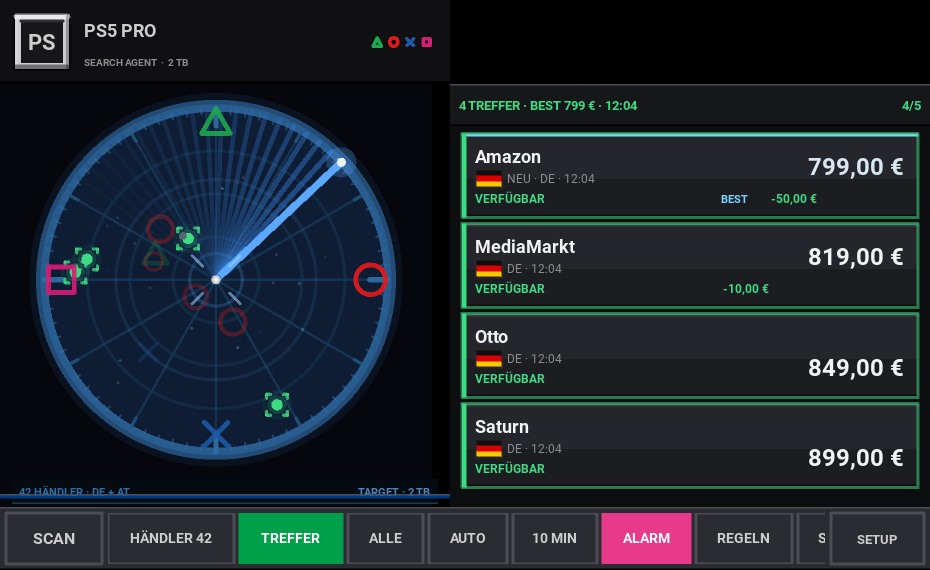
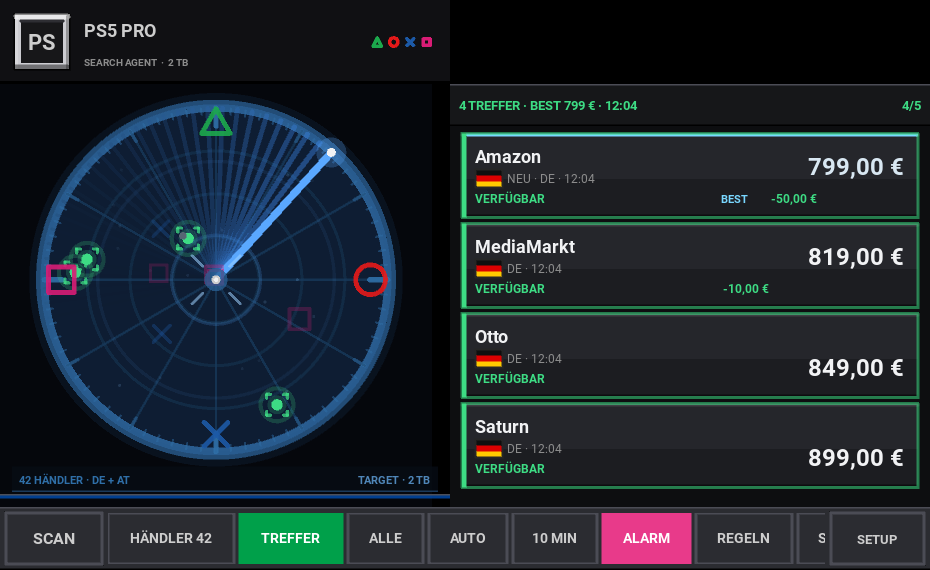
Querformat: HUD nicht mehr von der Bedienleiste angeschnitten
Im Querformat lag der HUD-Balken nur 2 dp ueber der Bedienleiste; deren
Oberkante schnitt die Unterlaengen der HUD-Schrift ab. Mit 10 dp Abstand ist
"42 HAENDLER - DE + AT" samt "TARGET - 2 TB" vollstaendig lesbar. Die beiden
Querformat-Bilder sind neu aufgenommen; Hochformat, Detail und GIF bleiben
unveraendert, weil dort der HUD ueber der Trefferliste liegt.

diff --git a/main.py b/main.py
@@ -1553,7 +1553,9 @@ class MainUI(FloatLayout):
             self.results_panel.pos=(g["panel_x"],g["panel_y"])
             self.results_panel.size=(g["panel_w"],g["results_h"])
             if g["wide"]:
-                self.radar_hud.pos=(left_in+dp(8),g["panel_y"]+dp(2))
+                # 10 dp Abstand zur Bedienleiste: bei 2 dp schnitt die
+                # Leiste die Unterlaengen der HUD-Schrift ab.
+                self.radar_hud.pos=(left_in+dp(8),g["panel_y"]+dp(10))
                 self.radar_hud.size=(max(dp(80),g["panel_x"]-dp(16)),dp(17))
             else:
                 self.radar_hud.pos=(left_in+dp(8),g["panel_y"]+g["results_h"])
